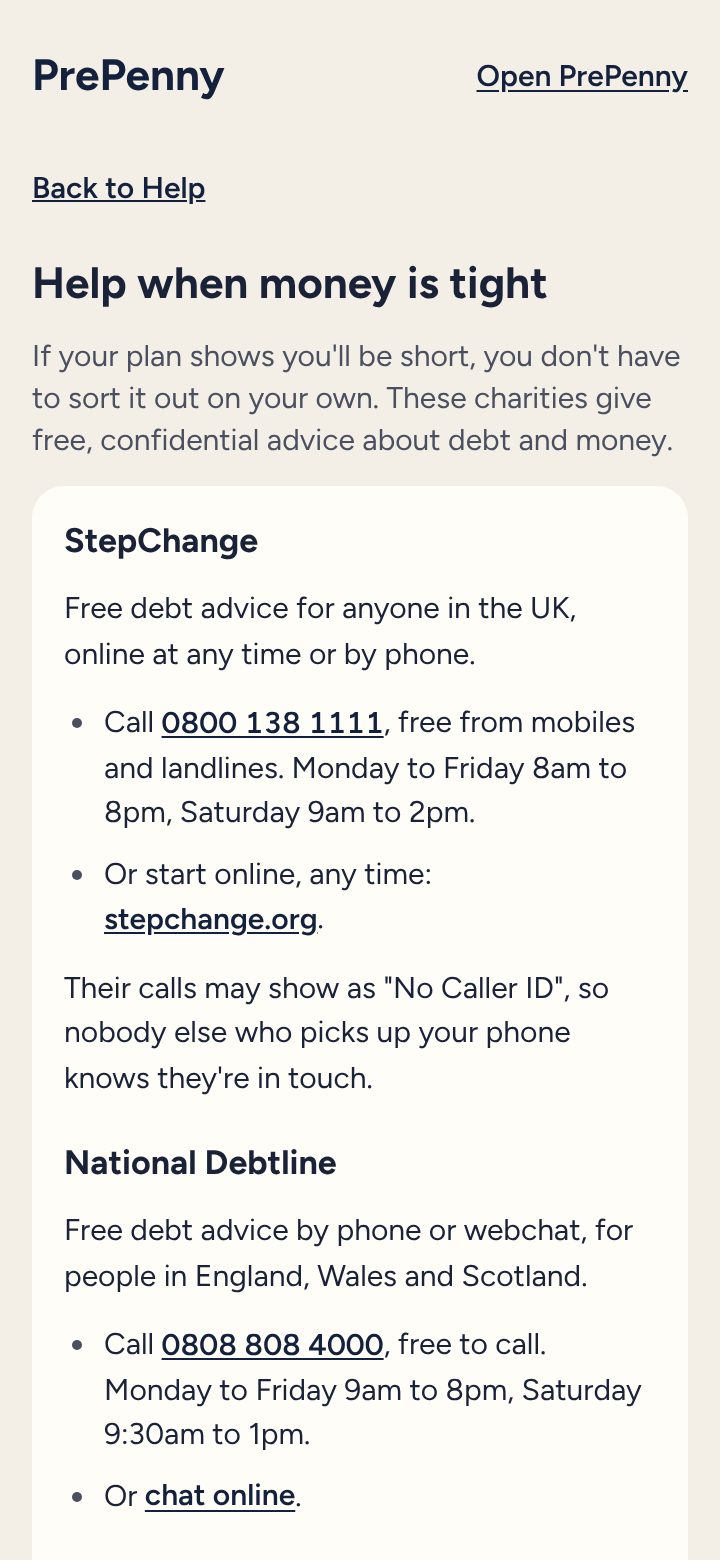
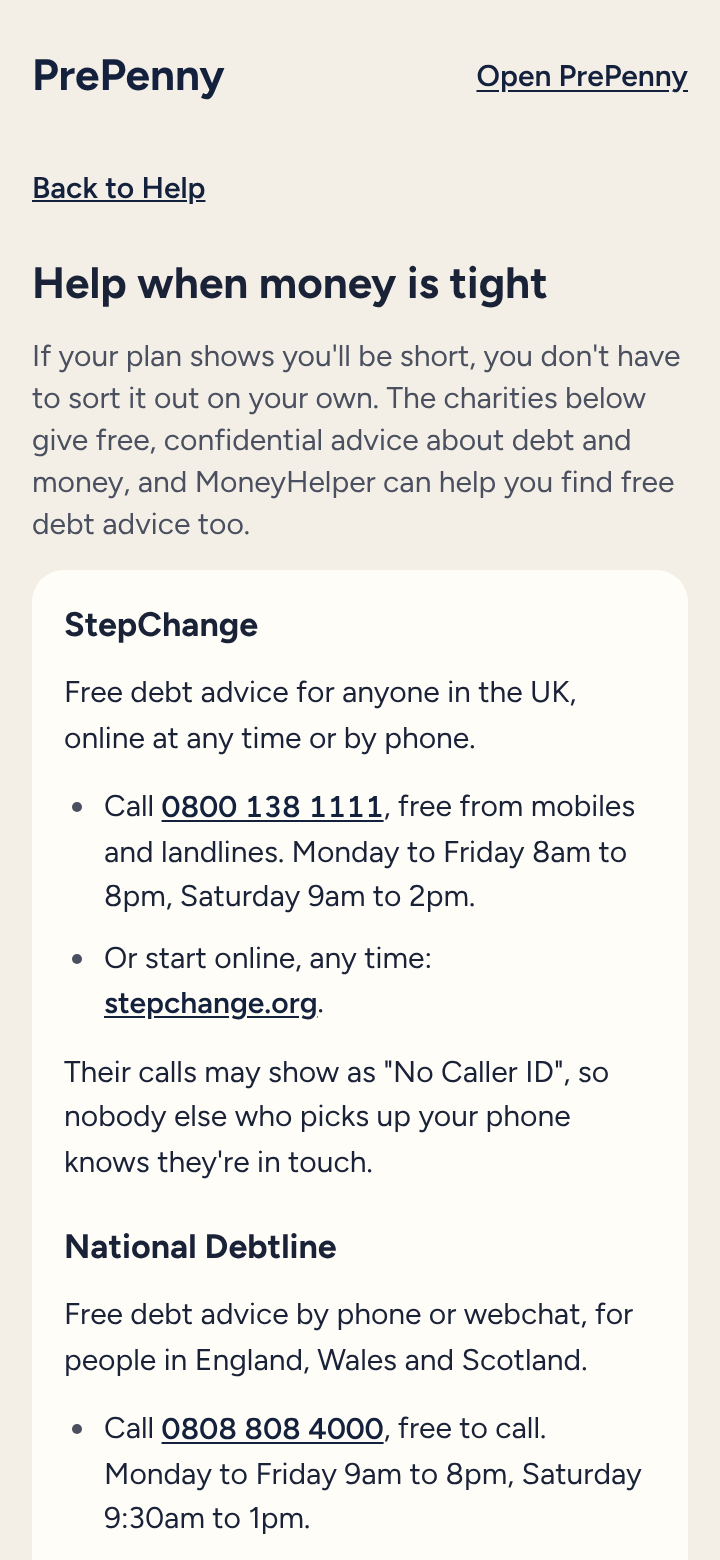
Help when money is tight: MoneyHelper's debt advice locator
The owner's answer to question 31 (D593): the link the owner checked on
their phone on 19 Nov 2026, with no phone number, and an opening line
that no longer calls MoneyHelper a charity.

Claude-Session: https://claude.ai/code/session_01R7WB9ttNtqCbRigdAk3Hwv

Changed region(s): [[0.0306, 0.2462, 0.9167, 0.9846], [0.7944, 0.6769, 0.8556, 0.7077], [0.7944, 0.6154, 0.8556, 0.6462]]

diff --git a/apps/web/test/unit/help-articles.test.ts b/apps/web/test/unit/help-articles.test.ts
@@ -98,6 +98,7 @@ describe('The help articles', () => {
       'nationaldebtline.org',
       'survivingeconomicabuse.org',
       'www.citizensadvice.org.uk',
+      'www.moneyhelper.org.uk',
       'www.stepchange.org',
     ]);
     expect([...hosts('shared-plans')]).toEqual(['survivingeconomicabuse.org']);

diff --git a/content/help/10-money-is-tight.md b/content/help/10-money-is-tight.md
@@ -1,6 +1,6 @@
 # Help when money is tight
 
-If your plan shows you'll be short, you don't have to sort it out on your own. These charities give free, confidential advice about debt and money.
+If your plan shows you'll be short, you don't have to sort it out on your own. The charities below give free, confidential advice about debt and money, and MoneyHelper can help you find free debt advice too.
 
 ## StepChange
 
@@ -33,7 +33,11 @@ Free advice about debt, and much more.
 
 Checked: on citizensadvice.org.uk on Wed 18 Nov 2026. https://www.citizensadvice.org.uk/about-us/contact-us/ says "call our debt helpline - it's available 9am to 8pm Monday to Friday and 9.30am to 1pm Saturday", "Debt helpline: 0800 240 4420", "Relay UK - if you can't hear or speak on the phone, you can type what you want to say: 18001 then 0800 240 4420", "The debt helpline is not available on public holidays." and "Calls are free from mobiles and landlines." Its chat about debt, https://www.citizensadvice.org.uk/about-us/information/chat-with-us-online-about-debt/, is "between 9am and 8pm Monday to Friday and between 9.30am and 1pm Saturday". https://www.citizensadvice.org.uk/about-us/northern-ireland/ says "The advice on this website doesn't cover Northern Ireland" and "You can get debt help from Advice NI".
 
-Checked: MoneyHelper couldn't be checked on Wed 18 Nov 2026. Every page of www.moneyhelper.org.uk answered with a "Just a moment..." browser check, which the building computer can't pass. So it isn't listed here until its link and number are checked on its own website.
+## MoneyHelper
+
+MoneyHelper's [debt advice locator](https://www.moneyhelper.org.uk/en/money-troubles/dealing-with-debt/debt-advice-locator) helps you find free debt advice.
+
+Checked: by PrePenny's owner, on their phone, on Thu 19 Nov 2026: https://www.moneyhelper.org.uk/en/money-troubles/dealing-with-debt/debt-advice-locator shows MoneyHelper's debt advice locator. No phone number was checked, so none is given. StepChange's contact page, checked on Wed 18 Nov 2026, describes the locator as the way "to find out more about free sources of advice". The building computer couldn't open www.moneyhelper.org.uk on Wed 18 Nov 2026: every page answered with a "Just a moment..." browser check.
 
 ## If someone else controls your money
 
